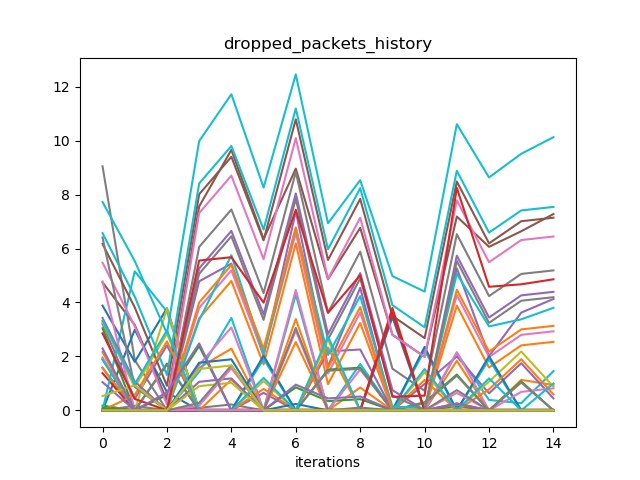
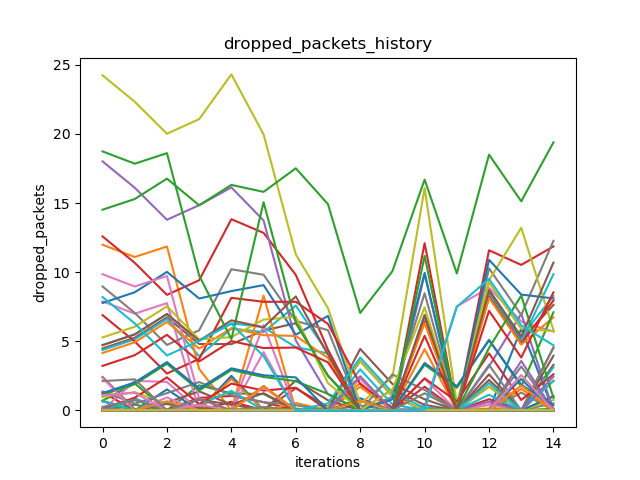
modified figures

diff --git a/router-game.py b/router-game.py
@@ -179,12 +179,12 @@ class Game:
             ax2.plot(agent.cost_history)
         ax1.set_title("dropped_packets_history")
         ax2.set_title("cost history")
-        ax1.set_xlabel("dropped_packets")
-        ax2.set_ylabel("cost")
+        ax1.set_ylabel("dropped_packets")
         ax1.set_xlabel("iterations")
-        ax2.set_ylabel("iterations")
+        ax2.set_ylabel("cost")
+        ax2.set_xlabel("iterations")
 
-        plt.show()
+        #plt.show()
         fig1.savefig(f'dropped_packets_{len(self.agents)}_agents_{self.coalition_num}_coalition_{no_steps}_steps.png')
         fig1.savefig(f'cost_history_{len(self.agents)}_agents_{self.coalition_num}_coalition_{no_steps}_steps.png')
 
